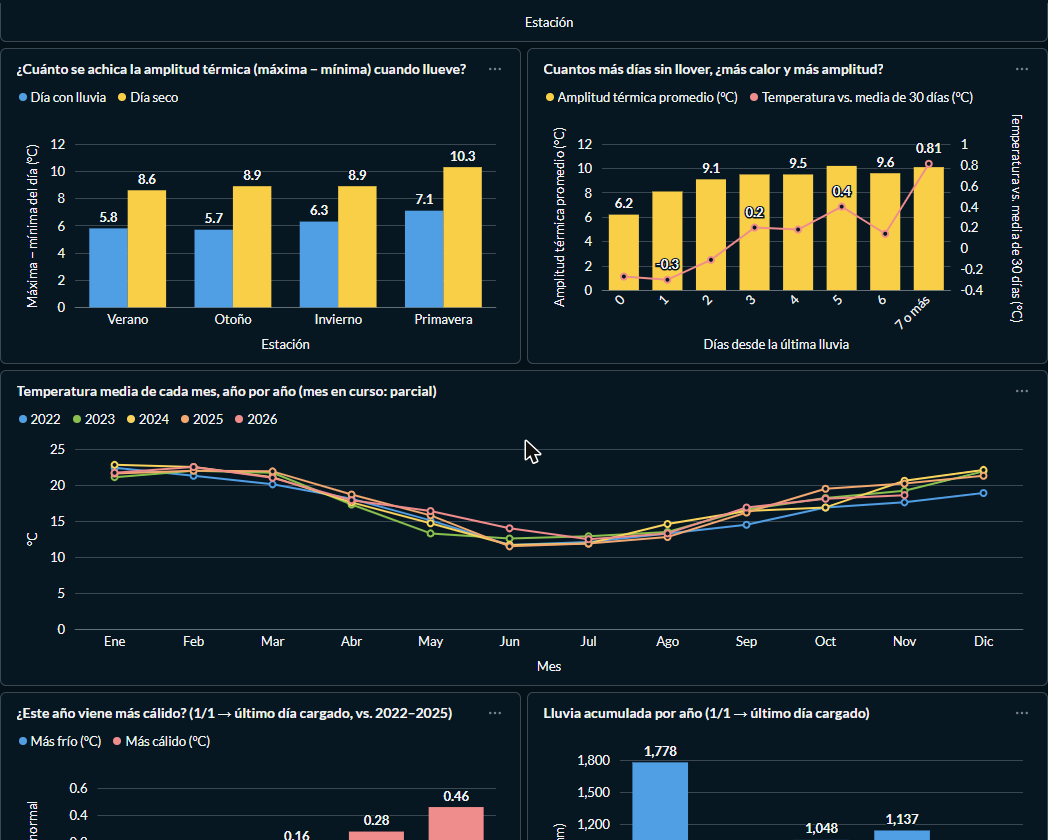
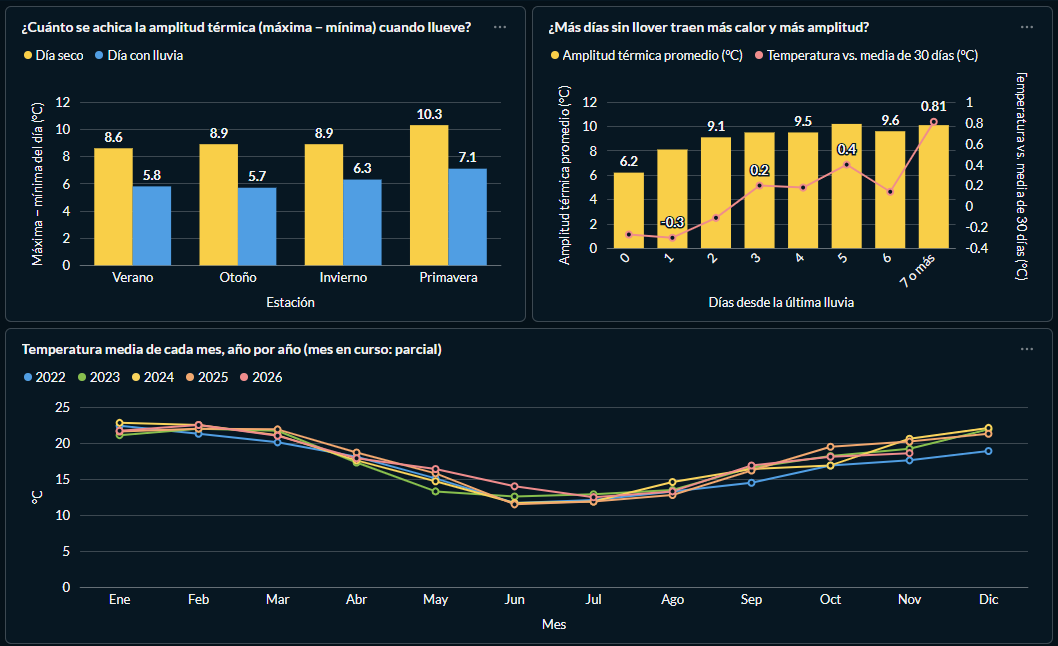
Docs finales: capturas del tablero, estado al 19/11 y agregados en governance

diff --git a/docs/governance.md b/docs/governance.md
@@ -45,7 +45,8 @@ avisa que hay que actualizar el catálogo. **Responsable de mantenerlo:** el mis
   Se descarta `rain_sum` (no comparable entre fuentes), se normaliza la dirección del viento y se agregan la estación del año y si fue día lluvioso.
 - **Gold** (dbt → PostgreSQL `warehouse.grupo06`): `fct_clima_mensual` (un registro por mes, con anomalías contra 2022-2025
   y la fase de El Niño / La Niña)
-  y `feat_clima_diario` (indicadores por día). Es lo que consulta el tablero de Metabase.
+  y `feat_clima_diario` (indicadores por día), más cuatro agregados chicos que lee el tablero (`agg_estacion_lluvia`,
+  `agg_dias_sin_lluvia`, `agg_anio_a_la_fecha`, `agg_fase_enso`). Es lo que consulta el tablero de Metabase.
 
 **Linaje** (no dibujado a mano: sale del `manifest.json` que genera dbt, con `python docs/generar_linaje.py`;
 el grafo interactivo está en `dbt docs generate` → `dbt/target/index.html`, pestaña *Lineage*):
@@ -100,6 +101,18 @@ Cada fila es lo que se sabe **al cierre del día `fecha`**; ninguna columna usa 
 | `desvio_vs_media_30d_c` | decimal | Cuánto se aparta el día de su promedio de 30 días, °C | −0.7 |
 | `dias_desde_ultima_lluvia` | entero | Días desde el último día con ≥ 1 mm (0 = llovió hoy; vacío si no llovió desde el inicio de la serie) | 3 |
 | `fuente` | texto | archive_era5 / historical_forecast | historical_forecast |
+
+### Agregados del tablero (`agg_*`) — una tabla por gráfico
+
+Salen de las dos tablas anteriores, se recalculan en cada corrida y tienen tests (clave única y no nula, valores permitidos).
+"Día con lluvia" = cayó ≥ 1 mm; "lo normal" = promedio 2022-2025.
+
+| Tabla | Un registro por | Columnas principales |
+|---|---|---|
+| `agg_estacion_lluvia` | estación del año (4) | `temp_media_dia_seco_c`, `temp_media_dia_con_lluvia_c`, `temp_media_estacion_c`, `amplitud_dia_seco_c`, `amplitud_dia_con_lluvia_c`, `dias_secos`, `dias_con_lluvia` |
+| `agg_dias_sin_lluvia` | días desde la última lluvia (0 a "7 o más") | `amplitud_media_c`, `temp_vs_media_30d_c` (°C sobre la media de 30 días), `dias` |
+| `agg_anio_a_la_fecha` | año, en el mismo tramo 1/1 → último día cargado | `tramo_hasta`, `dias`, `temp_media_tramo_c`, `anomalia_temperatura_c` (vs. 2022-2025), `lluvia_tramo_mm` |
+| `agg_fase_enso` | fase de El Niño / La Niña (3) | `meses`, `anomalia_temperatura_c`, `lluvia_vs_normal_pct` (% de lluvia sobre lo normal) |
 
 ### Campos del origen con significado dudoso
 - **`weather_code`** (bronze/silver): Open-Meteo lo describe como "el código WMO más severo del día", pero no documenta el

diff --git a/docs/E1_ingesta.md b/docs/E1_ingesta.md
@@ -61,12 +61,15 @@ Demo: `NB02`, sección 4 (dos corridas seguidas; la segunda deja igual las filas
 | La API no responde / tarda (timeout 5 s de conexión, 30 s de lectura) | Reintenta hasta 3 veces, con espera de 2 s y 4 s | Transitoria |
 | HTTP 429 (rate limit) o 5xx | Igual: reintenta con backoff | Transitoria |
 | Sigue fallando después de 3 intentos | `ErrorTransitorio`, sale con código 1; en Airflow, la tarea se reintenta más tarde (5 y 10 min) | Transitoria |
-| HTTP 400/401/403/404 (parámetro inválido, URL mal) | `ErrorPermanente` inmediato, **sin reintentar**: repetir da lo mismo | Permanente |
+| HTTP 400/401/403/404 (parámetro inválido, URL mal) | `ErrorPermanente` inmediato, **sin reintentar**: repetir da lo mismo. Sale con código 2 y Airflow **tampoco** reintenta la tarea (falla de una para revisar el log) | Permanente |
 | 200 pero el cuerpo no es JSON | `ErrorPermanente` | Datos raros |
 | JSON sin bloque `daily`, faltan variables, columnas de distinto largo | `ErrorPermanente` (se verifica **antes** de convertir a tabla) | Datos raros |
 | Fechas inválidas, repetidas o fuera del rango pedido | `ErrorPermanente` | Datos raros |
 | Unidad de temperatura distinta de °C | `ErrorPermanente` (un cambio de unidad arruinaría la serie sin dar error) | Datos raros |
 | Días con **todas** las mediciones nulas (el origen todavía no los publicó) | No se escriben y el corte se hace en el primer hueco: el watermark no avanza y la próxima corrida los vuelve a pedir | Esperable |
+
+Códigos de salida: **1** = transitoria (Airflow reintenta a los 5 y 10 min), **2** = permanente y **3** = falta configuración
+(`.env` incompleto o intervalo inválido). Con 2 o 3 la tarea de Airflow falla sin reintentos: esperar no lo arregla.
 
 Con cualquier error, **no se escribe nada**: se valida todo antes de escribir y la escritura Delta es atómica.
 

diff --git a/README.md b/README.md
@@ -92,13 +92,13 @@ cd dbt && dbt build --profiles-dir .     # silver + gold + tests
 cd .. && python -m scripts.publicar_gold # gold -> PostgreSQL
 ```
 
-## Estado (verificado en el servidor de la cátedra el 17/11/2026)
+## Estado (verificado en el servidor de la cátedra el 19/11/2026)
 
 | Parte | Estado |
 |---|---|
 | Ingesta (E1) | ✅ bronze completo 2022-01-01 → ayer; la 2.ª corrida del día no pide nada a la API |
 | dbt (E2) | ✅ `dbt build`: 2 seeds, 9 modelos (5 del pipeline + 4 agregados del tablero), 57 tests en verde sobre la tabla Delta real |
-| Airflow (E3) | ✅ `pipeline_grupo06` corre solo todos los días a las 06:00 (ART); todas las corridas del 26/10 al 16/11 en verde y sin reintentos; backfill por rango y por fecha lógica probado |
+| Airflow (E3) | ✅ `pipeline_grupo06` corre solo todos los días a las 06:00 (ART); todas las corridas del 26/10 al 19/11 en verde; backfill por rango desde el formulario del botón ▶ (sin duplicar) y por fecha lógica probado; las fallas permanentes no se reintentan |
 | CI (E3) | ✅ 3 jobs en verde; `main` protegida; rama `demo/ci-rojo` para mostrar el CI bloqueando |
 | Gold en PostgreSQL (E4) | ✅ `grupo06.fct_clima_mensual`, `grupo06.feat_clima_diario` (sin huecos ni duplicados) y los 4 agregados `grupo06.agg_*` que lee el tablero; publicación repetible |
 | Tablero Metabase (E4) | ✅ colección **Grupo06 · Clima de Sídney** en https://metabase.nexoacademia.org — preguntas y capturas en [docs/tablero_metabase.md](docs/tablero_metabase.md) |
